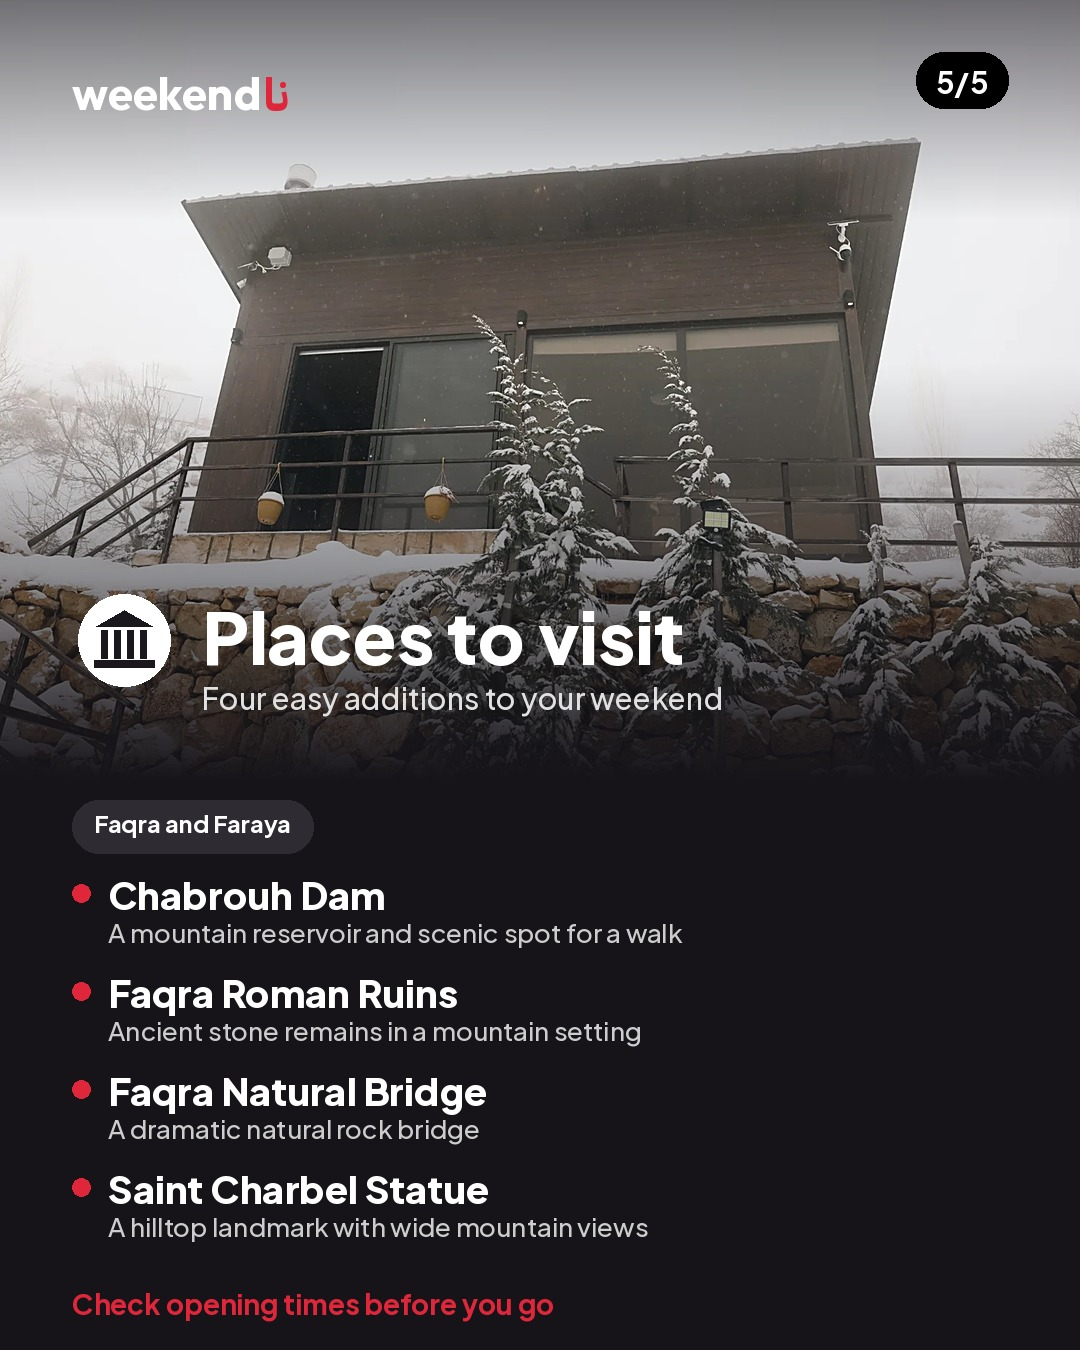
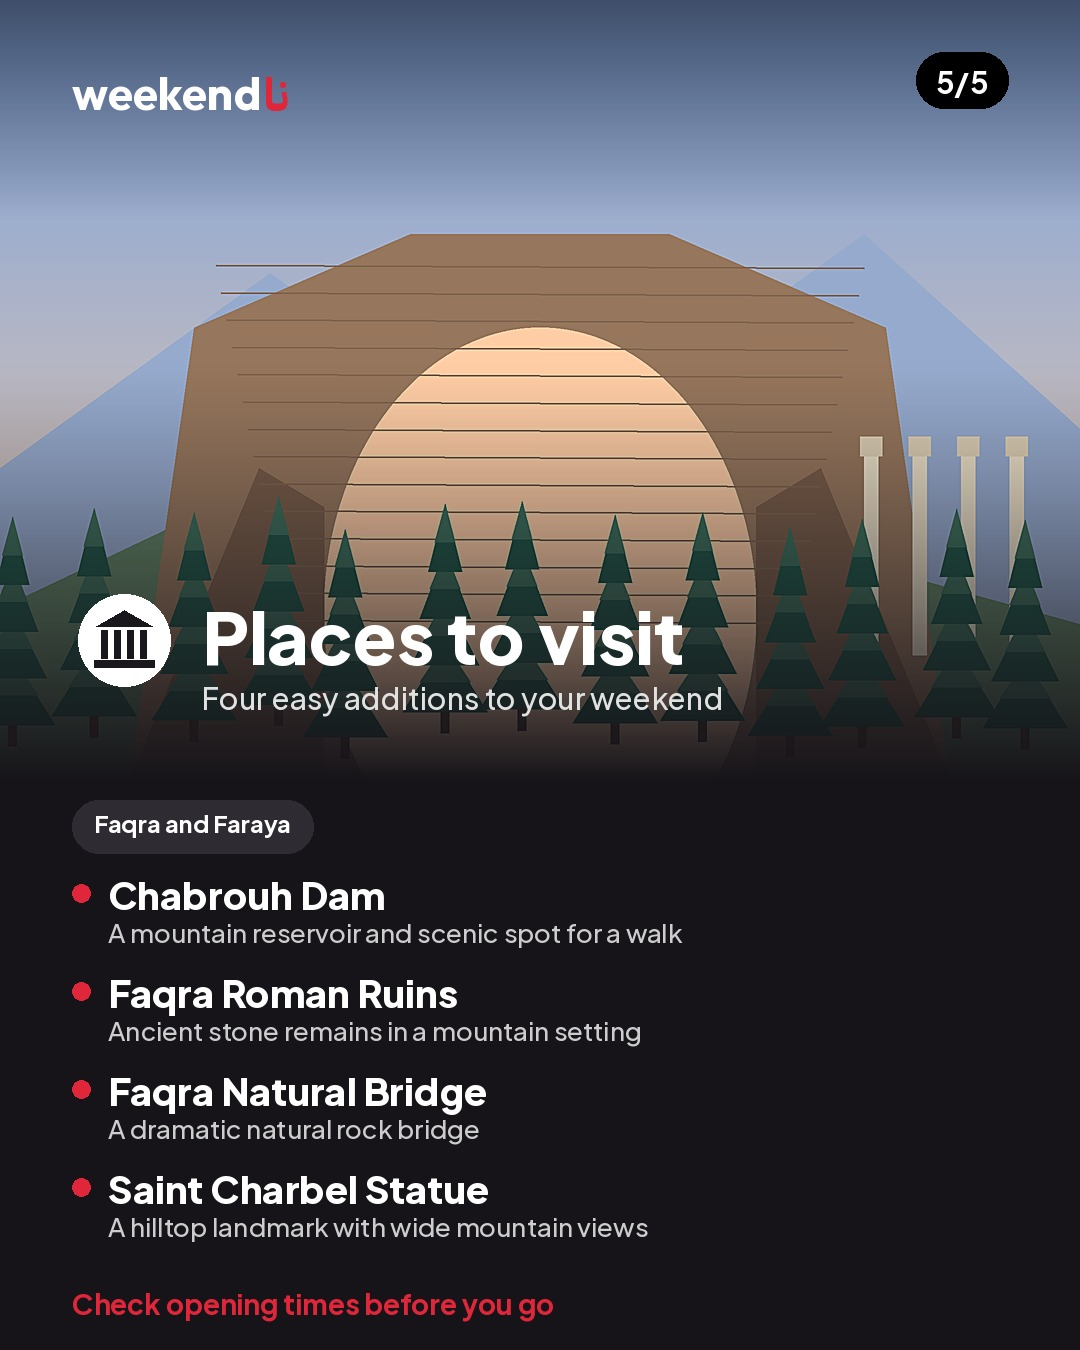
Faraya guide: illustrated scenes for food/activities/places slides
Claude-Session: https://claude.ai/code/session_01QuaNDh39daRNLQcQ5xCceG

diff --git a/tools/guide_art.py b/tools/guide_art.py
@@ -1,0 +1,76 @@
+"""Flat illustrated scenes for City Guides when no real photo of a place exists (honest: drawn, not photographic). Each returns a PIL image 1080x780."""
+import math, random
+from PIL import Image, ImageDraw, ImageFilter
+SW, SH, K = 1080, 780, 2
+
+def _grad(d, w, h, top, bot):
+    for y in range(h):
+        t = y / h; d.line((0, y, w, y), fill=tuple(int(top[i] + (bot[i] - top[i]) * t) for i in range(3)))
+
+def _mount(d, pts, col, snow=None):
+    d.polygon(pts, fill=col)
+
+def _pine(d, x, y, s, col=(24, 70, 62), snow=(245, 248, 252)):
+    for i in range(4):
+        w = s * (1 - i * 0.2); yy = y - i * s * 0.55
+        d.polygon([(x - w / 2, yy), (x + w / 2, yy), (x, yy - s * 0.8)], fill=col)
+        d.polygon([(x - w * 0.3, yy - s * 0.35), (x + w * 0.3, yy - s * 0.35), (x, yy - s * 0.8)], fill=snow)
+    d.rectangle((x - s * 0.05, y, x + s * 0.05, y + s * 0.25), fill=(70, 50, 40))
+
+def winter():
+    w, h = SW * K, SH * K; im = Image.new("RGB", (w, h)); d = ImageDraw.Draw(im)
+    _grad(d, w, h, (255, 190, 140), (150, 190, 235))
+    d.ellipse((w * .68, h * .12, w * .68 + 220, h * .12 + 220), fill=(255, 236, 190))
+    _mount(d, [(0, h * .62), (w * .22, h * .30), (w * .45, h * .58), (w * .7, h * .24), (w, h * .6), (w, h), (0, h)], (205, 220, 240))
+    _mount(d, [(0, h * .75), (w * .3, h * .48), (w * .6, h * .72), (w * .85, h * .5), (w, h * .7), (w, h), (0, h)], (235, 242, 250))
+    _mount(d, [(0, h * .9), (w * .4, h * .66), (w, h * .86), (w, h), (0, h)], (255, 255, 255))
+    random.seed(4)
+    for x in range(40, w, 150):
+        _pine(d, x + random.randint(-20, 20), h * (0.80 + random.random() * .12), 150 + random.randint(0, 60))
+    # lift cable + chairs
+    d.line((0, h * .12, w, h * .38), fill=(40, 40, 50), width=5)
+    for fx in (.22, .5, .78):
+        x = w * fx; y = h * .12 + (h * .26) * fx
+        d.line((x, y, x, y + 70), fill=(40, 40, 50), width=4); d.rounded_rectangle((x - 34, y + 70, x + 34, y + 104), radius=8, fill=(215, 40, 55))
+    # skier
+    sx, sy = w * .56, h * .86
+    d.line((sx - 60, sy + 70, sx + 70, sy + 56), fill=(30, 30, 40), width=7); d.polygon([(sx - 14, sy - 50), (sx + 20, sy - 50), (sx + 30, sy + 30), (sx - 6, sy + 36)], fill=(215, 40, 55))
+    d.ellipse((sx - 8, sy - 86, sx + 24, sy - 54), fill=(245, 205, 170)); d.line((sx + 20, sy - 30, sx + 70, sy + 20), fill=(30, 30, 40), width=5)
+    return im.resize((SW, SH), Image.LANCZOS)
+
+def food():
+    w, h = SW * K, SH * K; im = Image.new("RGB", (w, h), (116, 72, 44)); d = ImageDraw.Draw(im)
+    for y in range(0, h, 60): d.line((0, y, w, y + 8), fill=(104, 63, 38), width=4)
+    def plate(cx, cy, r, fill, rim=(250, 250, 248)):
+        d.ellipse((cx - r - 14, cy - r - 8, cx + r + 22, cy + r + 24), fill=(80, 48, 30))
+        d.ellipse((cx - r, cy - r, cx + r, cy + r), fill=rim); d.ellipse((cx - r * .8, cy - r * .8, cx + r * .8, cy + r * .8), fill=fill)
+    random.seed(7)
+    cx, cy = w * .30, h * .55; plate(cx, cy, 260, (244, 232, 196))   # hummus
+    d.ellipse((cx - 150, cy - 150, cx + 150, cy + 150), outline=(232, 196, 90), width=16); d.ellipse((cx - 70, cy - 70, cx + 70, cy + 70), fill=(238, 222, 176))
+    for _ in range(40): a = random.random() * 6.28; rr = random.random() * 200; d.ellipse((cx + math.cos(a) * rr, cy + math.sin(a) * rr, cx + math.cos(a) * rr + 12, cy + math.sin(a) * rr + 12), fill=(190, 70, 40))
+    cx, cy = w * .72, h * .45; plate(cx, cy, 230, (90, 150, 70))   # tabbouleh
+    for _ in range(420):
+        a = random.random() * 6.28; rr = random.random() * 190; x = cx + math.cos(a) * rr; y = cy + math.sin(a) * rr
+        d.ellipse((x, y, x + 14, y + 10), fill=random.choice([(60, 120, 50), (120, 180, 80), (200, 50, 40), (240, 235, 200)]))
+    cx, cy = w * .52, h * .84; d.ellipse((cx - 300, cy - 150, cx + 300, cy + 150), fill=(205, 160, 100)); d.ellipse((cx - 250, cy - 110, cx + 250, cy + 110), fill=(228, 190, 130))
+    for i in range(3): d.arc((cx - 250 + i * 60, cy - 110, cx + 250 - i * 60, cy + 110), 200, 340, fill=(190, 140, 80), width=8)
+    cx, cy = w * .90, h * .80; d.ellipse((cx - 150, cy - 150, cx + 150, cy + 150), fill=(240, 240, 240)); d.ellipse((cx - 100, cy - 100, cx + 100, cy + 100), fill=(190, 80, 30)); d.ellipse((cx - 85, cy - 85, cx + 85, cy + 85), fill=(150, 50, 20))
+    d.ellipse((cx - 60, cy - 70, cx - 20, cy - 40), fill=(220, 150, 90))
+    return im.resize((SW, SH), Image.LANCZOS).filter(ImageFilter.GaussianBlur(0.4))
+
+def landmark():
+    w, h = SW * K, SH * K; im = Image.new("RGB", (w, h)); d = ImageDraw.Draw(im)
+    _grad(d, w, h, (120, 160, 220), (255, 210, 170))
+    _mount(d, [(0, h * .6), (w * .25, h * .35), (w * .5, h * .6), (w * .8, h * .3), (w, h * .55), (w, h), (0, h)], (150, 170, 205))
+    _mount(d, [(0, h * .78), (w * .35, h * .55), (w, h * .8), (w, h), (0, h)], (96, 130, 100))
+    # rock arch (natural bridge)
+    d.polygon([(w * .12, h), (w * .18, h * .42), (w * .38, h * .30), (w * .62, h * .30), (w * .82, h * .42), (w * .88, h)], fill=(150, 118, 92))
+    d.ellipse((w * .30, h * .42, w * .70, h * 1.15), fill=(255, 205, 165))
+    d.polygon([(w * .12, h), (w * .24, h * .6), (w * .30, h * .65), (w * .30, h)], fill=(120, 92, 72)); d.polygon([(w * .88, h), (w * .76, h * .6), (w * .70, h * .65), (w * .70, h)], fill=(120, 92, 72))
+    for i in range(14): y = h * (.34 + i * .035); d.line((w * (.20 + i * .005), y, w * (.80 - i * .005), y + 6), fill=(128, 100, 78), width=4)
+    # roman columns
+    for k in range(4):
+        x = w * (.80 + k * .045); d.rectangle((x, h * .58, x + 28, h * .84), fill=(236, 224, 200)); d.rectangle((x - 8, h * .56, x + 36, h * .585), fill=(220, 206, 180))
+    random.seed(3)
+    for x in range(30, w, 170): _pine(d, x + random.randint(-20, 20), h * (.90 + random.random() * .05), 170, col=(30, 84, 70), snow=(60, 110, 90))
+    return im.resize((SW, SH), Image.LANCZOS)

diff --git a/tools/examples/make_faraya_guide.py b/tools/examples/make_faraya_guide.py
@@ -54,6 +54,7 @@ def photo_slide(photo, out, num, total, kind, title, sub, place, items, foot=Non
     if foot: d.text((M, 1285), foot, font=fit(d, foot, W - 2 * M, 700, 28, 20), fill=RED)
     img.save(out, quality=92)
 
+import guide_art as ART
 SNOW = P("acampar/42-01")  # Faraya winter image (Acampar), used until real photos of the sights/food exist
 slide1(P("acampar/42-02"), f"{O}/guide-1.jpg", "A weekend in Faraya", "Stay · Eat · Do · Explore", "Fireplaces, snow and mountain views, 45 min from Beirut",
        "", "Faraya · Faqra · Mzaar")
@@ -61,18 +62,18 @@ photo_slide(P("acampar/42-04"), f"{O}/guide-2.jpg", 1, 5, "stay", "Where to stay
             [("Wooden bungalows, most with a fireplace", ""), ("Mountain views and a terrace", ""), ("For 2 to 6 guests", "")], "From $80 a night", cy=0.55)
 photo_slide(P("fvc/26-01"), f"{O}/guide-3.jpg", 2, 5, "stay", "Where to stay", "Faraya Village Club, Mzaar", "Mzaar",
             [("A chimney in every chalet", ""), ("A heated pool on site", ""), ("From a studio for 2 to a chalet for 7", "")], "From $150 a night")
-photo_slide(SNOW, f"{O}/guide-4.jpg", 3, 5, "eat", "Food and drinks", "From mezze to pizza and coffee", "Faraya",
+photo_slide(ART.food(), f"{O}/guide-4.jpg", 3, 5, "eat", "Food and drinks", "From mezze to pizza and coffee", "Faraya",
             [("Jnaynit al Khaweja", "Garden-style Lebanese, mezze and a long mountain meal"), ("Em Sherif Deli", "Lebanese classics in a relaxed, casual setting"),
              ("Mario e Mario", "Pizza and pasta"), ("Meat the Fish", "Grilled meat and seafood for lunch or dinner"), ("LTTL BEAN", "A warm drink and something sweet")],
-            "Check opening hours before you go", cy=0.2)
-photo_slide(SNOW, f"{O}/guide-5.jpg", 4, 5, "do", "Activities", "Snow, speed and slow mountain days", "Mzaar and Faraya",
+            "Check opening hours before you go", cy=0.5)
+photo_slide(ART.winter(), f"{O}/guide-5.jpg", 4, 5, "do", "Activities", "Snow, speed and slow mountain days", "Mzaar and Faraya",
             [("Ski and snowboard", "Mzaar Kfardebian, when the snow and slopes are open"), ("Snowmobile rides", "With a local operator, when conditions allow"),
              ("Hiking and mountain walks", "Highland trails and cooler mountain air"), ("Scenic outings", "Viewpoints, photos and relaxed mountain drives")],
-            "Depends on weather, season and operators", cy=0.5, cx=0.2)
-photo_slide(SNOW, f"{O}/guide-6.jpg", 5, 5, "see", "Places to visit", "Four easy additions to your weekend", "Faqra and Faraya",
+            "Depends on weather, season and operators", cy=0.5)
+photo_slide(ART.landmark(), f"{O}/guide-6.jpg", 5, 5, "see", "Places to visit", "Four easy additions to your weekend", "Faqra and Faraya",
             [("Chabrouh Dam", "A mountain reservoir and scenic spot for a walk"), ("Faqra Roman Ruins", "Ancient stone remains in a mountain setting"),
              ("Faqra Natural Bridge", "A dramatic natural rock bridge"), ("Saint Charbel Statue", "A hilltop landmark with wide mountain views")],
-            "Check opening times before you go", cy=0.8, cx=0.8)
+            "Check opening times before you go", cy=0.5)
 last(f"{O}/guide-7.jpg", None, "Plan your Faraya weekend", "", main="save", head=("Your Faraya", "weekend starts here"))
 story(P("acampar/42-02"), f"{O}/story.jpg", "A weekend", "in Faraya", "Stays, food, activities and places to visit", "", main="save")
 print("ok")
